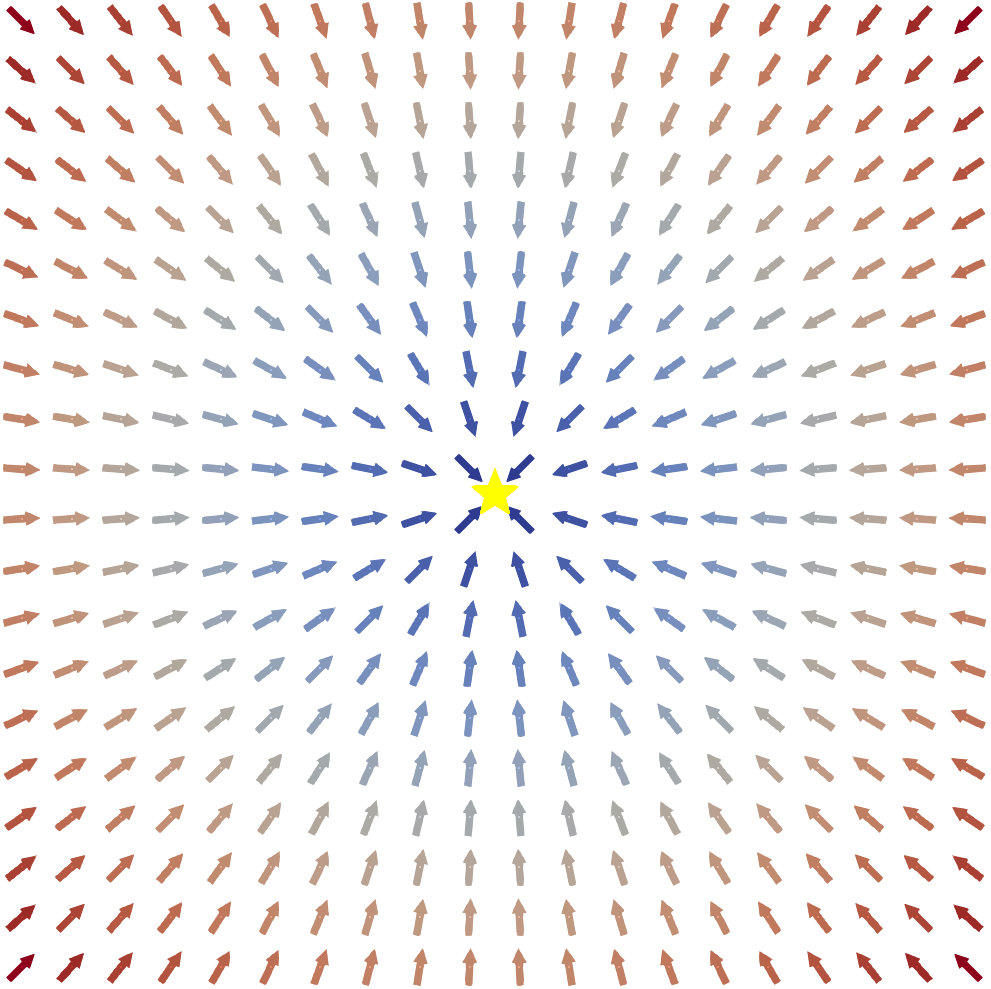
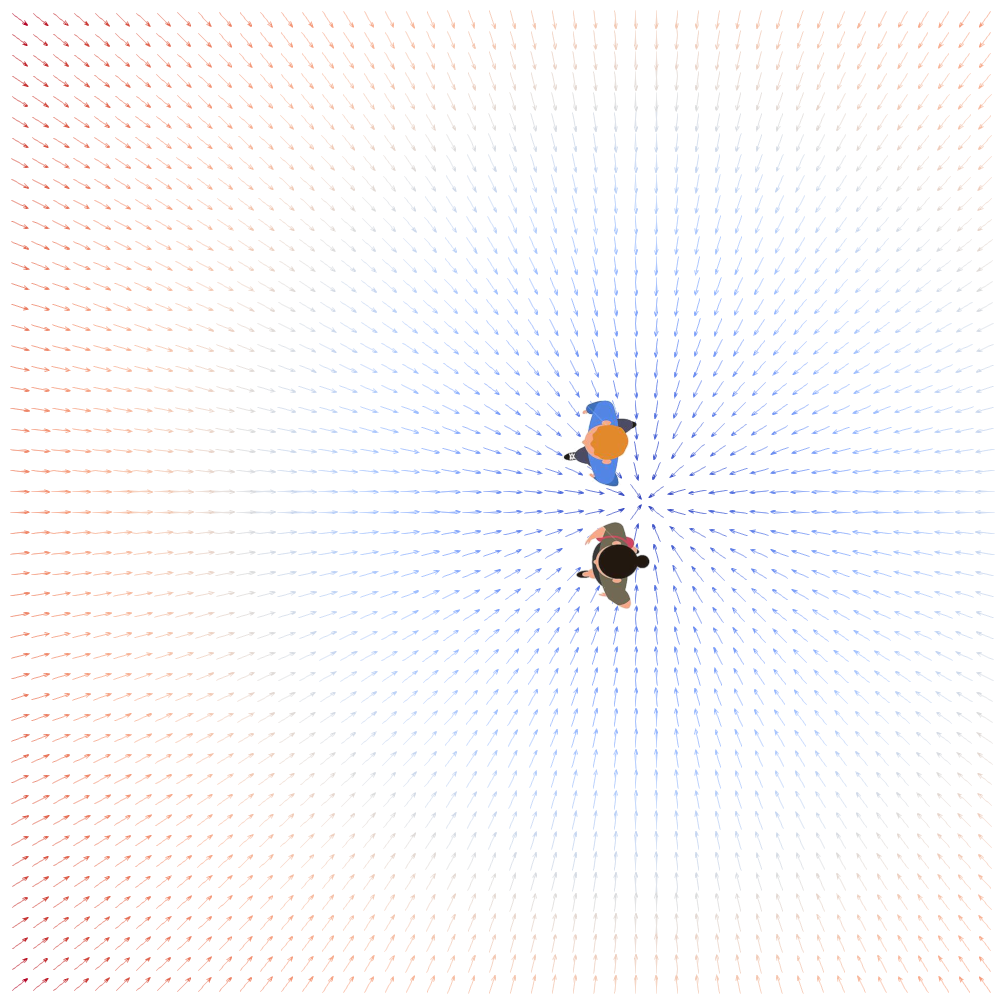
Add presentation source code

diff --git a/main.tex b/main.tex
@@ -68,6 +68,14 @@
 \section{Basics of Motion Planning}
 %------------------------------------------------
 
+\begin{frame}{Motion Planning}
+    \begin{itemize}
+        \item Motion planning is one of the most fundamental skills a human being possesses
+        \item Being able to avoid collisions allows us to interact with other humans
+        \item Teaching a robot how to approach this problem is very hard
+    \end{itemize}
+\end{frame}
+
 \begin{frame}{Problem Definition}
     \begin{itemize}
         \item Given a set of agents $A$, each agent has:
@@ -86,13 +94,16 @@
     \end{itemize}
 \end{frame}
 
-\begin{frame}{Motion Planning}
-    \begin{itemize}
-        \item Motion planning is one of the most fundamental skills a human being possesses
-        \item Being able to avoid collisions allows us to interact with other humans
-        \item Teaching a robot how to approach this problem is very hard
-    \end{itemize}
+\begin{frame}{Goal Driving Force}
+  \begin{itemize}
+    \item Defined as the vector pointing directly at the goal
+    \item Getting to the goal is a robots prime directive
+  \end{itemize}
+  \[
+    \mathbf{F}_{goal} = \mathbf{g} - \mathbf{p}
+  \]
 \end{frame}
+
 
 \begin{frame}{Current Ecosystem}
   \begin{itemize}
@@ -109,6 +120,33 @@
       \item NavDreams
     \end{itemize}
   \end{itemize}
+\end{frame}
+
+\begin{frame}{Time to Collision}
+  \begin{itemize}
+    \item Humans use \textit{Time-to-Collision (ttc)}, or $\tau$, as a metric for avoiding collisions
+  \end{itemize}
+  \begin{figure}
+    \includegraphics[width=0.7\textwidth]{imgs/no_ttc.png}
+  \end{figure}
+\end{frame}
+
+\begin{frame}{Time to Collision}
+  \begin{itemize}
+    \item Humans use \textit{Time-to-Collision (ttc)}, or $\tau$, as a metric for avoiding collisions
+  \end{itemize}
+  \begin{figure}
+    \includegraphics[width=0.7\textwidth]{imgs/ttc_far.png}
+  \end{figure}
+\end{frame}
+
+\begin{frame}{Time to Collision}
+  \begin{itemize}
+    \item Humans use \textit{Time-to-Collision (ttc)}, or $\tau$, as a metric for avoiding collisions
+  \end{itemize}
+  \begin{figure}
+    \includegraphics[width=0.7\textwidth]{imgs/ttc_close.png}
+  \end{figure}
 \end{frame}
 
 \begin{frame}{Powerlaw}
@@ -142,14 +180,10 @@
     \text{where $\nabla_{\mathbf{r}}$ is the spacial gradient}
   \end{gather*}
   \begin{itemize}
-    \item This force is calculated for each agent and combined with a goal driving force
-    \item Integrating this force results in a collision free and goal directed velocity
+    \item Integrating this force results in a collision free velocity
+    \item Combining this with the goal-directed force satisfies both goal-directed behavior and collision-free behavior
   \end{itemize}
 \end{frame}
-
-%------------------------------------------------
-\section{Great, now what does that actually mean?}
-%------------------------------------------------
 
 \begin{frame}{High Level}
   \begin{itemize}
@@ -160,10 +194,30 @@
   \end{itemize}
 \end{frame}
 
+%------------------------------------------------
+\section{Great, now what does that actually mean?}
+%------------------------------------------------
+
+\begin{frame}{Context}
+\begin{itemize}
+  \item Thus far everything has been abstract, so lets contextualize
+
+  \begin{figure}
+    \includegraphics[width=0.6\textwidth]{imgs/scene.png}
+  \end{figure}
+\end{itemize}
+\end{frame}
+
+\begin{frame}{Goal Driving Force}
+  \begin{figure}
+    \includegraphics[width=0.5\textwidth]{imgs/goal_directed_force.png}
+  \end{figure}
+\end{frame}
+
 \begin{frame}{Goal Driving Force}
   \begin{itemize}
     \item Defined as the vector pointing directly at the goal
-    \item Can be scaled to promote collision-free decisions over goal-directed ones
+    \item Getting to the goal is a robots prime directive
   \end{itemize}
   \[
     \mathbf{F}_{goal} = \mathbf{g} - \mathbf{p}
@@ -176,8 +230,88 @@
   \end{figure}
 \end{frame}
 
+\begin{frame}{Goal Driving Surface}
+  \begin{figure}
+    \includegraphics[width=0.5\textwidth]{imgs/goal_surface.png}
+  \end{figure}
+\end{frame}
+
+\begin{frame}{Combined Induced Forces}
+  \begin{figure}
+    \includegraphics[width=0.5\textwidth]{imgs/combined_forces.png}
+  \end{figure}
+\end{frame}
+
+\begin{frame}{Combined Induced Forces}
+  \begin{figure}
+    \includegraphics[width=0.5\textwidth]{imgs/forces_surface.png}
+  \end{figure}
+\end{frame}
+
+\begin{frame}{Powerlaw Forces}
+  \begin{figure}
+    \includegraphics[width=0.5\textwidth]{imgs/final_vel.png}
+  \end{figure}
+\end{frame}
+
+\begin{frame}{Powerlaw Surface}
+  \begin{figure}
+    \includegraphics[width=0.5\textwidth]{imgs/final_vel_surface.png}
+  \end{figure}
+\end{frame}
+
 %------------------------------------------------
-\section{Conclusions, Contributions, and Future Work}
+\section{Explaining my Visualization Choices}
 %------------------------------------------------
+
+\begin{frame}{Simplicity of the Output}
+  \begin{itemize}
+    \item Motion planning algorithms work mostly with velocities and forces
+    \item While there are a decent number of steps in the pipeline, they all deal with something that is relatively basic to visualize
+    \item I wanted to build intuition in a similar way to the way a spiral wishing well works
+  \end{itemize}
+\end{frame}
+
+\begin{frame}{Spiral Wishing Well}
+  \begin{figure}
+    \includegraphics[width=0.75\textwidth]{imgs/spiral_wishing_well.jpg}
+  \end{figure}
+\end{frame}
+
+\begin{frame}{Vector Fields}
+  \begin{itemize}
+    \item I couldn't just jump straight to a surface
+    \item Vector fields are a good middle ground that show both directionality and magnitude of velocities 
+    \item Still have the problem of not really being able to convey how ``strong'' the repulsive force is
+  \end{itemize}
+\end{frame}
+
+\begin{frame}{Delaunay Triangulation}
+  \begin{itemize}
+    \item With the Powerlaw algorithm being based on something similar to gradient descent I knew I would have to develop some sort of surface to convey this
+    \item Delanunay was a simple way to create that surface
+    \item I could vary which of the magnitudes to plot as the z axis, the spacial derivative is something I left to the reader
+  \end{itemize}
+\end{frame}
+
+%------------------------------------------------
+\section{Conclusions and Future Work}
+%------------------------------------------------
+
+\begin{frame}{Conclusions}
+  \begin{itemize}
+    \item Bringing nice visualizations to fruition is both incredibly frustrating and rewarding
+    \item A lot of my intuition as to how Powerlaw would look was wrong
+    \item As robots become more involved in daily life it will be important to understand how they work
+  \end{itemize}
+\end{frame}
+
+\begin{frame}{Future Work}
+  \begin{itemize}
+    \item Visualize in velocity space rather than positional space
+    \item Include a ``true" geometric planner like ORCA
+    \item Try to visualize something non-numerical, like CrowdNav
+  \end{itemize}
+\end{frame}
 
 \end{document}
